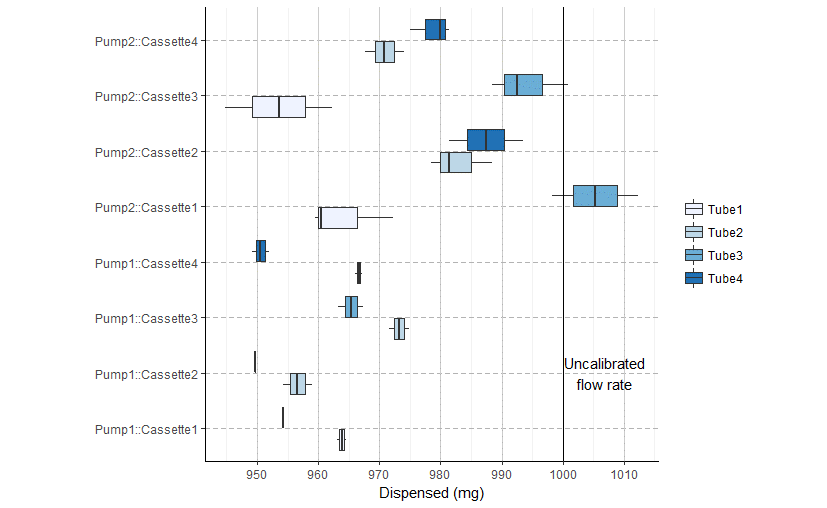
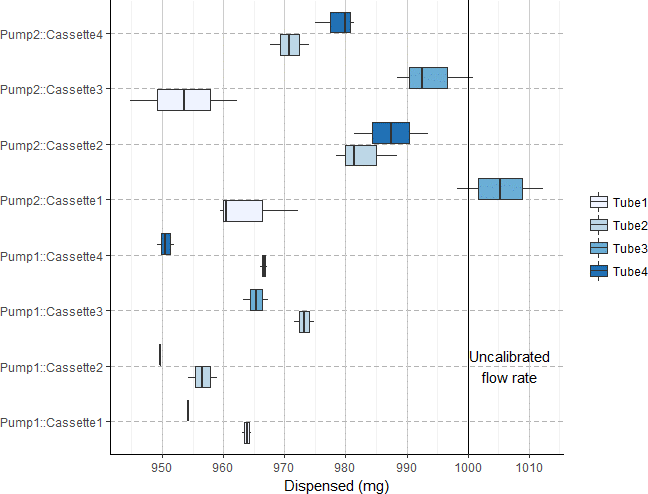
img consistency, size

diff --git a/source/hardware/operation.rst b/source/hardware/operation.rst
@@ -114,7 +114,7 @@ In this case high variability is observed and an inlet/outlet flow delta of ~10%
 would be considered a safe operating margin.
 
 .. figure:: img/flowrate_delta_determination.png
-   :scale: 75%
+   :scale: 100%
 
    Measured dispensed volume of random combination of two pumps and four sets of
    stoppered tubing. Cassettes (sping arm for clamping stoppered tubing down
